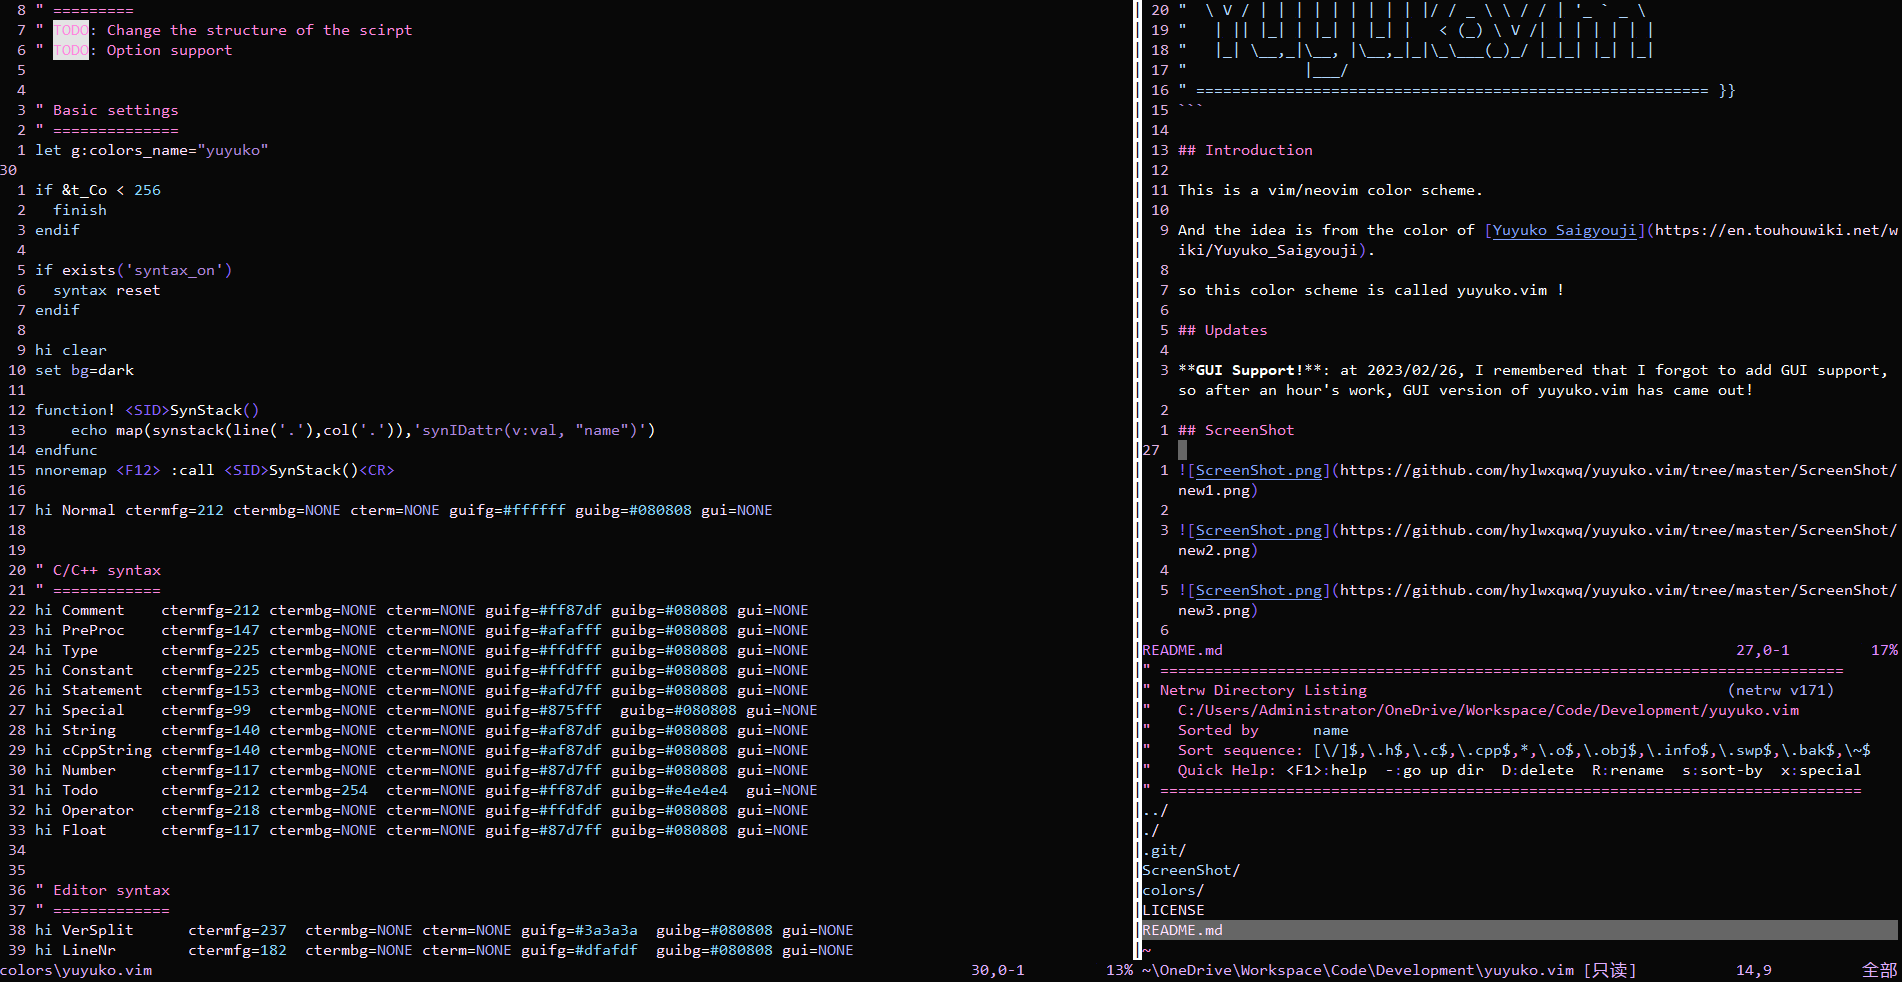
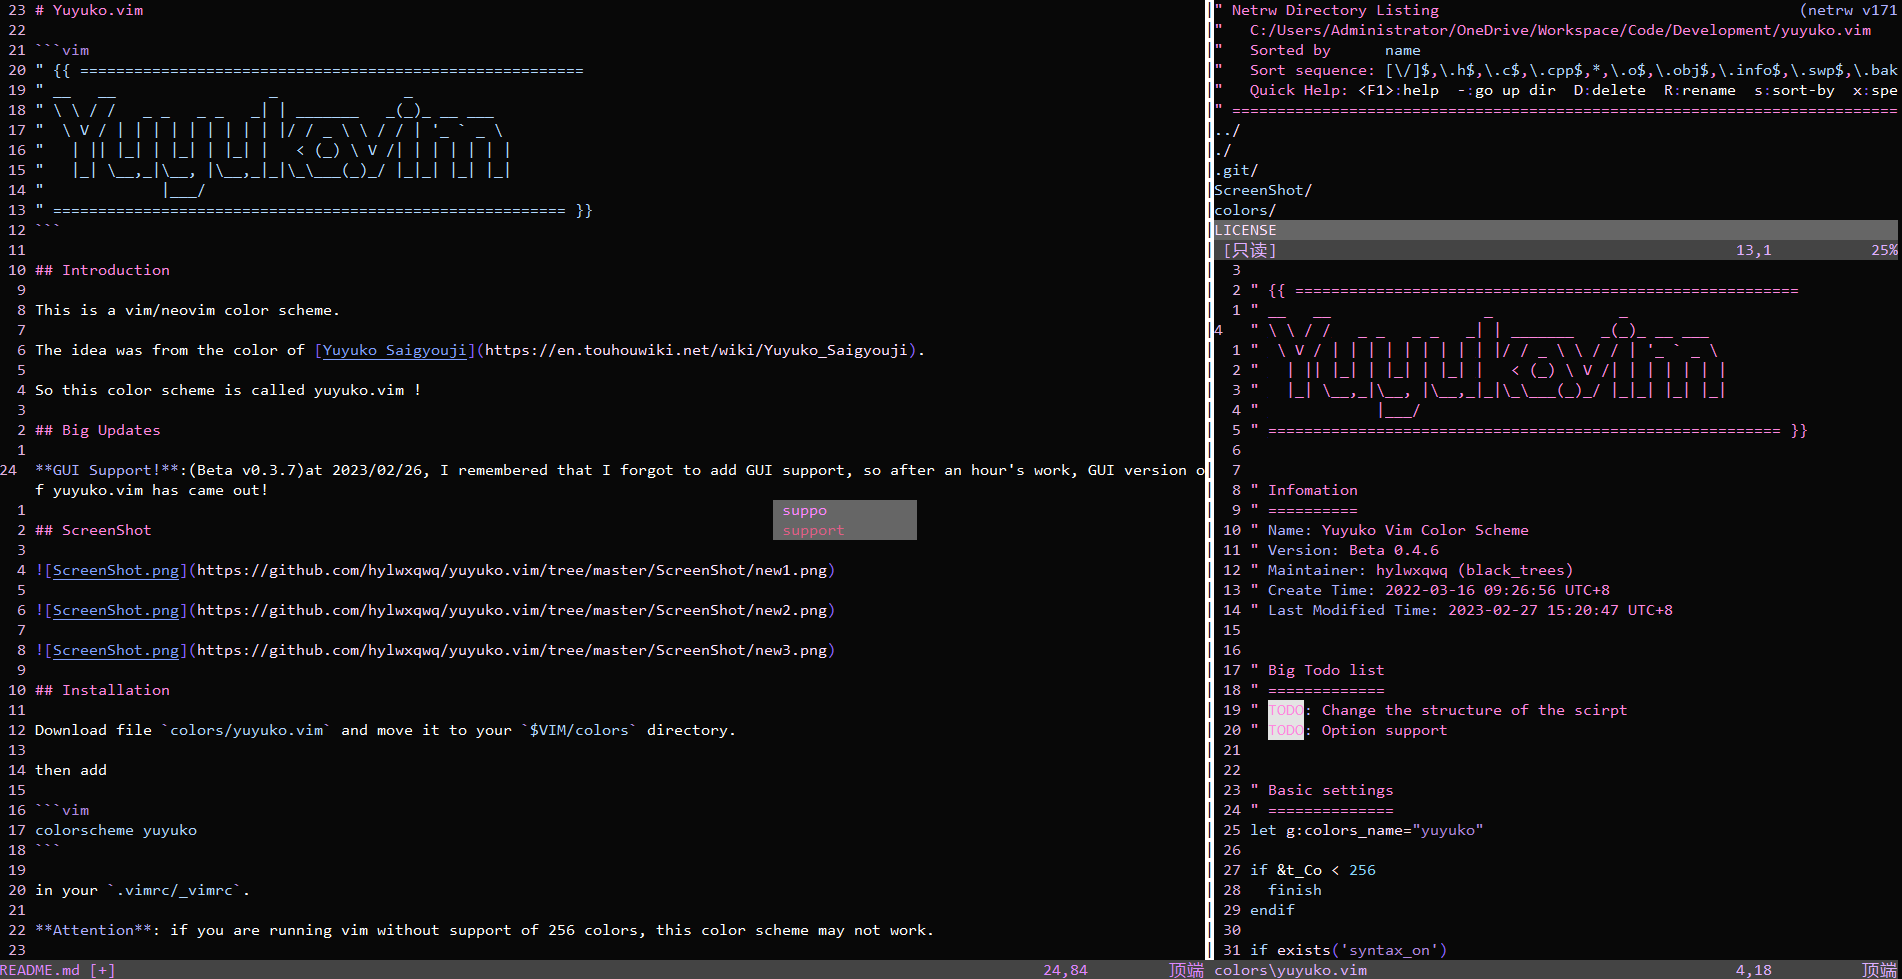
Beta v0.4.6 : fix status & markdown syntax.

Changed region(s): [[0.0, 0.0, 1.0, 1.0], [0.9926, 0.6435, 1.0, 0.6742]]

diff --git a/README.md b/README.md
@@ -15,13 +15,13 @@
 
 This is a vim/neovim color scheme.
 
-And the idea is from the color of [Yuyuko Saigyouji](https://en.touhouwiki.net/wiki/Yuyuko_Saigyouji).
+The idea was from the color of [Yuyuko Saigyouji](https://en.touhouwiki.net/wiki/Yuyuko_Saigyouji).
 
-so this color scheme is called yuyuko.vim !
+So this color scheme is called yuyuko.vim !
 
-## Updates
+## Big Updates
 
-**GUI Support!**: at 2023/02/26, I remembered that I forgot to add GUI support, so after an hour's work, GUI version of yuyuko.vim has came out!
+**GUI Support!**:(Beta v0.3.7)at 2023/02/26, I remembered that I forgot to add GUI support, so after an hour's work, GUI version of yuyuko.vim has came out!
 
 ## ScreenShot
 
@@ -31,11 +31,9 @@ so this color scheme is called yuyuko.vim !
 
 ![ScreenShot.png](https://github.com/hylwxqwq/yuyuko.vim/tree/master/ScreenShot/new3.png)
 
-Old version's ScreenShots can be found here: <https://github.com/hylwxqwq/yuyuko.vim/tree/master/ScreenShot>
-
 ## Installation
 
-Install `colors/yuyuko.vim` and move it to your `$VIM/colors` directory.
+Download file `colors/yuyuko.vim` and move it to your `$VIM/colors` directory.
 
 then add 
 
@@ -44,6 +42,8 @@ colorscheme yuyuko
 ```
 
 in your `.vimrc/_vimrc`.
+
+**Attention**: if you are running vim without support of 256 colors, this color scheme may not work.
 
 ## TodoList
 
@@ -54,6 +54,7 @@ in your `.vimrc/_vimrc`.
 - [x] More ScreenShots.
 - [x] More support for js, json, java, ruby, sql, c#, css, xml, html, php, go.
 - [x] Fix the unexpected syntax in .py file and .vim file.
+- [x] Fix the unexpected syntax in .md file.
 
 ## Vscode version
 
